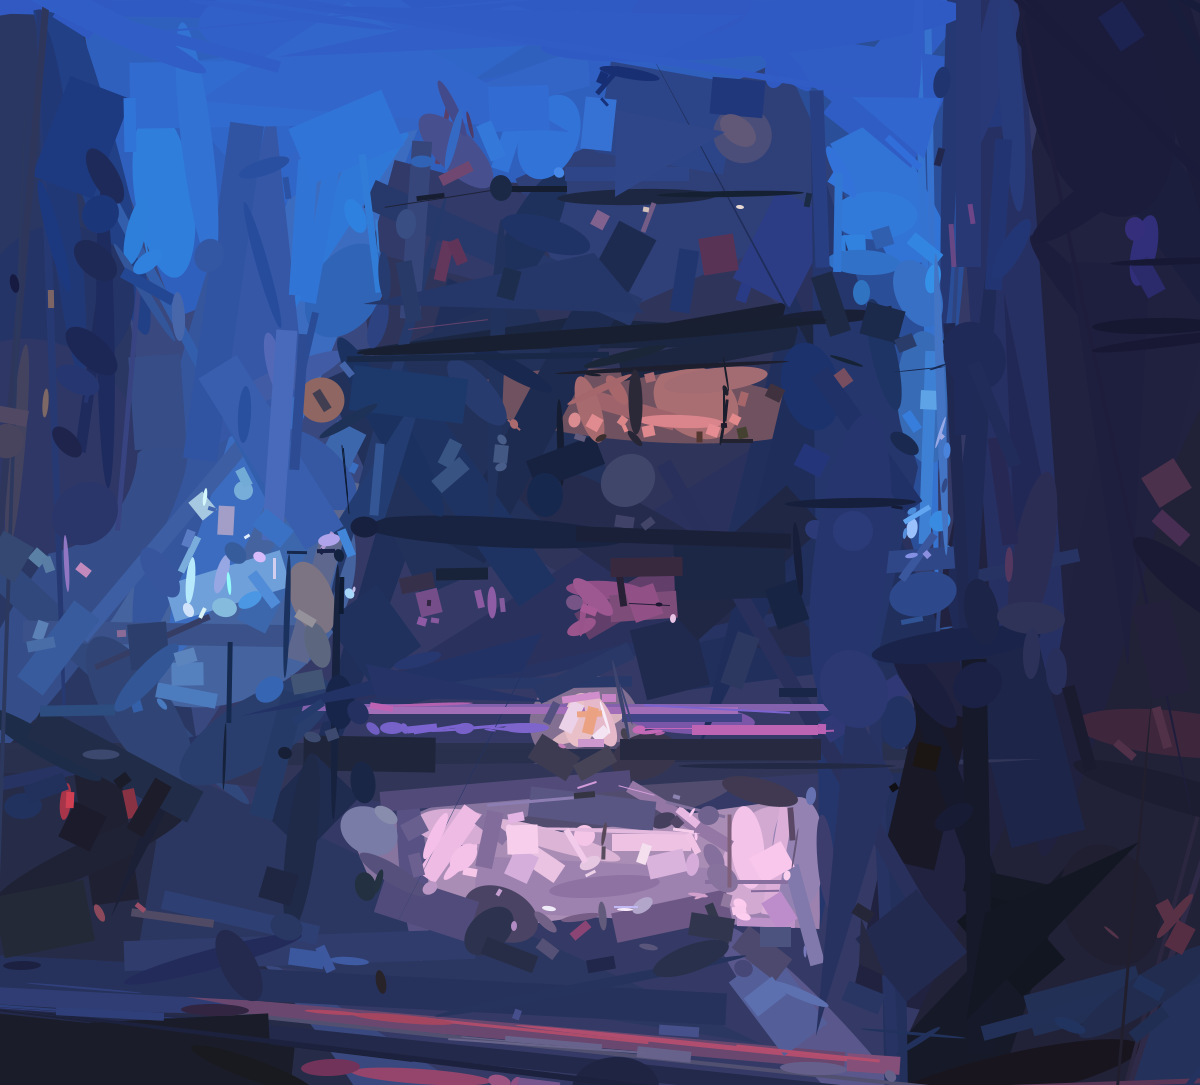
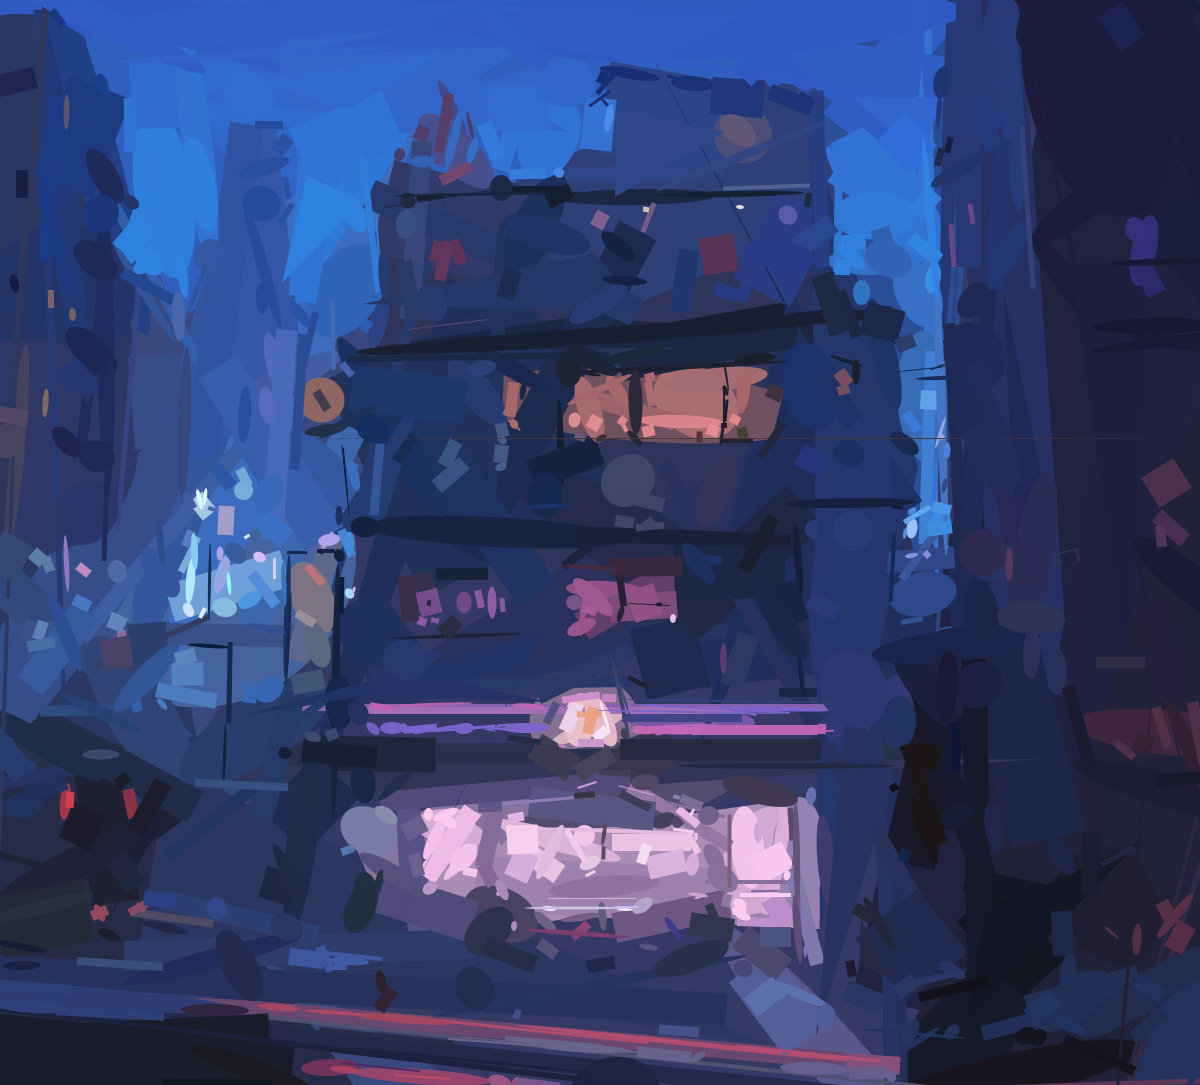
File organisation

diff --git a/Main.java b/Main.java
@@ -19,6 +19,7 @@ public class Main {
 
     // enable if you want to continue from a previous render/image, with filename "output.png".
     static boolean use_existing_image = true;
+    static boolean generate_mask = false;
 
 
     public static void main(String[] args) {
@@ -37,25 +38,14 @@ public class Main {
         ShapeManager sm = new ShapeManager(dimensions.x, dimensions.y, image);
 
         for (int i = 0; i < SHAPE_LIMIT; i++) {
-            // calculate average size of shape
-
             long start = System.nanoTime();
-            // BufferedImage mask = generate_image_mask(image, recreation);
+
+            if (generate_mask) {
+                BufferedImage mask = generate_image_mask(image, recreation);
+                save_image(mask, "images/mask.png");
+            }
+
             int[] mask_array = generate_mask_array(image, recreation);
-            // for (int m = 0; m < 1000; m++) {
-            //     int mask_value = (int) (Math.random() * mask_array[mask_array.length - 1]);
-            //     int index = Main.find_first_greater_than(mask_array, mask_value);
-
-            //     int x = index % dimensions.x;
-            //     int y = index / dimensions.x;
-                
-
-            //     mask.setRGB(x, y, Color.YELLOW.getRGB());
-
-            //     if (m % 100 == 0) {
-            //         save_image(mask, "images/mask_" + m + ".png");
-            //     }
-            // }
 
             ArrayList<Individual> lst = sm.generate_shape_list(300, recreation, get_average_size(size_queue), mask_array);
 
@@ -74,7 +64,7 @@ public class Main {
                 Shape shape = lst.get(0).shape;
 
                 int size = shape.get_approximate_size();
-                size_queue.add(size);
+                size_queue.add(Math.max(size, 4)); //add a minimum size to prevent having shapes of 1 pixel
                 shape.draw(g);
 
                 System.out.println("---------------------------------------------------------------------");
@@ -108,7 +98,6 @@ public class Main {
             if (i % 500 == 0 || i == 250) {
                 save_image(recreation, "images/output" + i + ".png");
             }
-            // save_image(mask, "images/mask.png");
         }
     }
 

diff --git a/ShapeManager.java b/ShapeManager.java
@@ -44,12 +44,11 @@ public class ShapeManager {
         int mask_value = (int) (Math.random() * position_mask[position_mask.length - 1]);
         int index = Main.find_first_greater_than(position_mask, mask_value);
 
+        // isolate coordinates based on array index
         int x = index % maxX;
         int y = index / maxX;
 
         Vector2 position = new Vector2(x - width/2, y - height/2);
-        
-        // System.out.println(width + ", " + height + ", " + x + ", " + y + ", " + angle);
 
         switch (shape) {
             case SHAPE.Rect -> {
@@ -79,7 +78,6 @@ public class ShapeManager {
     public Color getAverageColorOfShape(Shape shape, BufferedImage target) {
         //sets up a blank image with the same dimensions as the target
 
-        // TODO: Optimisations here with bounding box
         BufferedImage tempImage = new BufferedImage(this.maxX, this.maxY, 5);
         int redSum = 0; int blueSum = 0; int greenSum = 0; int count = 0; //counts the sums of colors and n
 
@@ -120,7 +118,8 @@ public class ShapeManager {
             return returnList;
         }
 
-        // pure random (10%)
+        // pure random (20%)
+        // we need some pure randomness for generation diversity, otherwise we could be finding local maxima
         for (int i = 0; i < length * 0.2; i++) {
             Shape shape = generateShape(null, mask_array);
             double eval = squared_evaluation(target, current, shape);
@@ -140,8 +139,6 @@ public class ShapeManager {
             }
         }
 
-        // skewed to difference mask
-        
         return returnList;
     }
 
@@ -231,9 +228,7 @@ public class ShapeManager {
         int r2 = (pixel2 >> 16) & 0xFF;
         int g2 = (pixel2 >> 8) & 0xFF;
         int b2 = pixel2 & 0xFF;
-
-        // System.out.printf("rgb1: (%d,%d,%d), rgb2: (%d,%d,%d)%n", r1, g1, b1, r2, g2, b2);
-
+        
         return Math.sqrt(
             Math.pow(r1 - r2, 2) + Math.pow(g1 - g2, 2) + Math.pow(b1 - b2, 2)
         );
